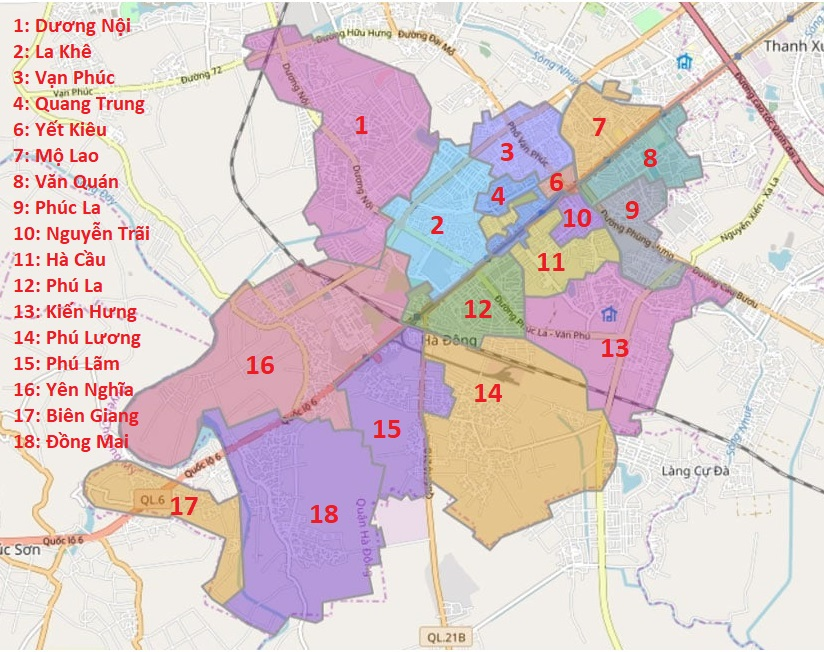
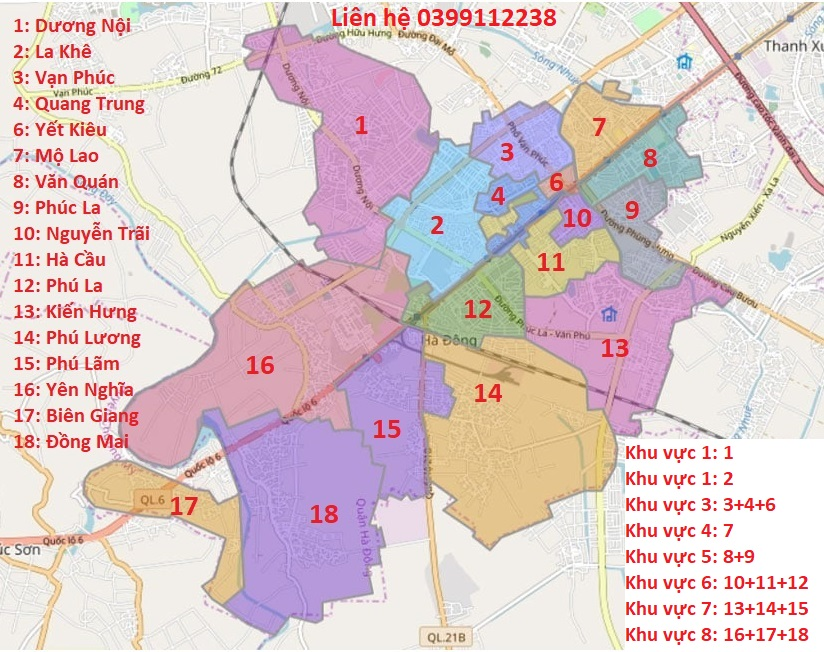
a

Changed region(s): [[0.7585, 0.6748, 1.0, 1.0], [0.3944, 0.0, 0.6978, 0.0613]]

diff --git a/index.html b/index.html
@@ -76,12 +76,12 @@
 
                <div class="dropdown button2" id="logomenu">
                   <button class="btn btn-default btn-lg dropdown-toggle button3" type="button" id="luachon" data-toggle="dropdown" aria-haspopup="true" aria-expanded="false">
-                    Tiếng Anh với người nước ngoài
+                    Nhà trên 5 tỷ
                     <span class="caret"></span>
                   </button>
                   <ul class="dropdown-menu" aria-labelledby="luachon">
-                    <li><a href="#">Lập trình cho trẻ em</a></li>
-                    <li><a href="#">Tiếng Hàn online</a></li> 
+                    <li><a href="#">Nhà trên 3 tỷ</a></li>
+                    <li><a href="#">Nhà dưới 5 tỷ</a></li> 
                    <!--  <li><a href="#">Sản phẩm mùa đông</a></li>  -->                    
                   </ul>
                    <button class="btn btn-default btn-lg button1" type="button"><i class="fa fa-search" ></i></button>
@@ -94,7 +94,7 @@
   <!-- khung 3 -->
      <div class="col-md-2 hidden-xs hidden-sm nuthover navbar-right ">
         
-        <div class="btn btn-default btn-lg dropdown-toggle navbar-right button4"><i class="fa fa-shopping-cart  "></i> 0 Khóa học(s) - 0 VND
+        <div class="btn btn-default btn-lg dropdown-toggle navbar-right button4"><i class="fa fa-shopping-cart  "></i> 1 Nhà Hà Đông - 6,5 tỷ
          
       
         </div>      
@@ -277,7 +277,10 @@
                     </div>
                 </div>
                 <div class="nuthanghoa text-center" id="nuthanghoa">
-                 <span id="nuthanghoa"><img src="img1/hand-right.gif"></span><button  type="button" class="btn btn-default cha " data-toggle="modal" data-target=".bs-example-modal-lg">Gọi tư vấn</button>
+                 <span id="nuthanghoa"><img src="img1/hand-right.gif"></span><button  type="button" class="btn btn-default cha ">
+ 						<a  href="tel://0984214768"><i ></i>Gọi tư vấn</a>
+                 </button>
+
                  </div>
             </div>
             <div class="item">
@@ -411,7 +414,7 @@
     <div id="main3">       
            <!-- Controls -->
       <div class="nutcontrol">
-          <span class="nennut"><span class="glyphicon glyphicon-heart-empty"></span>Các khu vực</span>
+          <span class="nennut"><span class="glyphicon glyphicon-heart-empty"></span> Chọn khu vực</span>
           <div class="muiten"><i class="fa fa-caret-left" aria-hidden="true"></i></div>
           <a class=" navbar-right" href="#carousel-simple3" role="button" data-slide="next">
              <span><i class="fa fa-chevron-right vitri4 text-center" aria-hidden="true"></i></span>
@@ -451,7 +454,7 @@
               <div class="item">
                 <div class="col-md-4 col-xs-12">
                    <div class="spchayngang thumbnail">
-                        <img src="img1/hoctap/english.jpg" alt="">
+                        <img src="img1/hoctap/dev.jpg" alt="">
                       <button type="button" class="btn qickshop1 center-block" ><a class="buttonwhite" href="">Chi tiết</a></button>
                 <div class=" sanphaminfor"> 
                   <p class="text-center" style="font-weight: bold ;">Khu vực 2: Mã số 2</p>
@@ -471,7 +474,30 @@
               </div>
 
 
-                          <div class="item">
+             <div class="item">
+                <div class="col-md-4 col-xs-12">
+                   <div class="spchayngang thumbnail">
+                      <img src="img1/hoctap/dev.jpg" alt="">
+                      <button type="button" class="btn qickshop1 center-block" ><a class="buttonwhite" href="">Chi tiết</a></button>
+                <div class=" sanphaminfor"> 
+                  <p class="text-center" style="font-weight: bold ;">Khu vực 3: Mã số 3+4+5+6</p>
+                   <div class="text-center"><span class="danhgia "><i class="fa fa-star" aria-hidden="true"></i><i class="fa fa-star" aria-hidden="true"></i><i class="fa fa-star" aria-hidden="true"></i><i class="fa fa-star" aria-hidden="true"></i><i class="fa fa-star-half-o" aria-hidden="true"></i></span>
+                    </div>
+                </div>
+                       <div class="nuthanghoa text-center" id="nuthanghoa">
+                          
+                          <span><img src="img1/hand-right.gif"></span><button type="button" class="btn btn-default cha" data-toggle="modal" data-target=".bs-example-modal-lg">Đăng ký</button>
+                          <div class="btn-group" role="group" aria-label="...">
+                            <button type="button" class="btn btn-default con"><i class="fa fa-heart"></i></button>
+                            <button type="button" class="btn btn-default con"><i class="fa fa-retweet"></i></button>
+                          </div>
+                       </div>
+                    </div>
+                </div>
+              </div>
+
+               
+             <div class="item">
                 <div class="col-md-4 col-xs-12">
                    <div class="spchayngang thumbnail">
                       <img src="img1/hoctap/Korian.jpg" alt="">
@@ -493,7 +519,90 @@
                 </div>
               </div>
 
-               
+             <div class="item">
+                <div class="col-md-4 col-xs-12">
+                   <div class="spchayngang thumbnail">
+                      <img src="img1/hoctap/Korian.jpg" alt="">
+                      <button type="button" class="btn qickshop1 center-block" ><a class="buttonwhite" href="">Chi tiết</a></button>
+                <div class=" sanphaminfor"> 
+                  <p class="text-center" style="font-weight: bold ;">Khu vực 3: Mã số 3+4+5+6</p>
+                   <div class="text-center"><span class="danhgia "><i class="fa fa-star" aria-hidden="true"></i><i class="fa fa-star" aria-hidden="true"></i><i class="fa fa-star" aria-hidden="true"></i><i class="fa fa-star" aria-hidden="true"></i><i class="fa fa-star-half-o" aria-hidden="true"></i></span>
+                    </div>
+                </div>
+                       <div class="nuthanghoa text-center" id="nuthanghoa">
+                          
+                          <span><img src="img1/hand-right.gif"></span><button type="button" class="btn btn-default cha" data-toggle="modal" data-target=".bs-example-modal-lg">Đăng ký</button>
+                          <div class="btn-group" role="group" aria-label="...">
+                            <button type="button" class="btn btn-default con"><i class="fa fa-heart"></i></button>
+                            <button type="button" class="btn btn-default con"><i class="fa fa-retweet"></i></button>
+                          </div>
+                       </div>
+                    </div>
+                </div>
+              </div>
+             <div class="item">
+                <div class="col-md-4 col-xs-12">
+                   <div class="spchayngang thumbnail">
+                      <img src="img1/hoctap/Korian.jpg" alt="">
+                      <button type="button" class="btn qickshop1 center-block" ><a class="buttonwhite" href="">Chi tiết</a></button>
+                <div class=" sanphaminfor"> 
+                  <p class="text-center" style="font-weight: bold ;">Khu vực 3: Mã số 3+4+5+6</p>
+                   <div class="text-center"><span class="danhgia "><i class="fa fa-star" aria-hidden="true"></i><i class="fa fa-star" aria-hidden="true"></i><i class="fa fa-star" aria-hidden="true"></i><i class="fa fa-star" aria-hidden="true"></i><i class="fa fa-star-half-o" aria-hidden="true"></i></span>
+                    </div>
+                </div>
+                       <div class="nuthanghoa text-center" id="nuthanghoa">
+                          
+                          <span><img src="img1/hand-right.gif"></span><button type="button" class="btn btn-default cha" data-toggle="modal" data-target=".bs-example-modal-lg">Đăng ký</button>
+                          <div class="btn-group" role="group" aria-label="...">
+                            <button type="button" class="btn btn-default con"><i class="fa fa-heart"></i></button>
+                            <button type="button" class="btn btn-default con"><i class="fa fa-retweet"></i></button>
+                          </div>
+                       </div>
+                    </div>
+                </div>
+              </div>
+             <div class="item">
+                <div class="col-md-4 col-xs-12">
+                   <div class="spchayngang thumbnail">
+                      <img src="img1/hoctap/Korian.jpg" alt="">
+                      <button type="button" class="btn qickshop1 center-block" ><a class="buttonwhite" href="">Chi tiết</a></button>
+                <div class=" sanphaminfor"> 
+                  <p class="text-center" style="font-weight: bold ;">Khu vực 3: Mã số 3+4+5+6</p>
+                   <div class="text-center"><span class="danhgia "><i class="fa fa-star" aria-hidden="true"></i><i class="fa fa-star" aria-hidden="true"></i><i class="fa fa-star" aria-hidden="true"></i><i class="fa fa-star" aria-hidden="true"></i><i class="fa fa-star-half-o" aria-hidden="true"></i></span>
+                    </div>
+                </div>
+                       <div class="nuthanghoa text-center" id="nuthanghoa">
+                          
+                          <span><img src="img1/hand-right.gif"></span><button type="button" class="btn btn-default cha" data-toggle="modal" data-target=".bs-example-modal-lg">Đăng ký</button>
+                          <div class="btn-group" role="group" aria-label="...">
+                            <button type="button" class="btn btn-default con"><i class="fa fa-heart"></i></button>
+                            <button type="button" class="btn btn-default con"><i class="fa fa-retweet"></i></button>
+                          </div>
+                       </div>
+                    </div>
+                </div>
+              </div>
+             <div class="item">
+                <div class="col-md-4 col-xs-12">
+                   <div class="spchayngang thumbnail">
+                      <img src="img1/hoctap/Korian.jpg" alt="">
+                      <button type="button" class="btn qickshop1 center-block" ><a class="buttonwhite" href="">Chi tiết</a></button>
+                <div class=" sanphaminfor"> 
+                  <p class="text-center" style="font-weight: bold ;">Khu vực 3: Mã số 3+4+5+6</p>
+                   <div class="text-center"><span class="danhgia "><i class="fa fa-star" aria-hidden="true"></i><i class="fa fa-star" aria-hidden="true"></i><i class="fa fa-star" aria-hidden="true"></i><i class="fa fa-star" aria-hidden="true"></i><i class="fa fa-star-half-o" aria-hidden="true"></i></span>
+                    </div>
+                </div>
+                       <div class="nuthanghoa text-center" id="nuthanghoa">
+                          
+                          <span><img src="img1/hand-right.gif"></span><button type="button" class="btn btn-default cha" data-toggle="modal" data-target=".bs-example-modal-lg">Đăng ký</button>
+                          <div class="btn-group" role="group" aria-label="...">
+                            <button type="button" class="btn btn-default con"><i class="fa fa-heart"></i></button>
+                            <button type="button" class="btn btn-default con"><i class="fa fa-retweet"></i></button>
+                          </div>
+                       </div>
+                    </div>
+                </div>
+              </div>
 
 
 
@@ -522,145 +631,13 @@
 
 
      <!-- phan 3 san pham giam can --> 
+
+
  <div class="row">
     <div id="main2">       
            <!-- Controls -->
-      <div class="nutcontrol">
-          <span class="nennut"><span class="glyphicon glyphicon-resize-small"></span>Thầy cô tiếng Anh</span>
-          <div class="muiten"><i class="fa fa-caret-left" aria-hidden="true"></i></div>
-          <a class=" navbar-right" href="#carousel-simple2" role="button" data-slide="next">
-             <span><i class="fa fa-chevron-right vitri4 text-center" aria-hidden="true"></i></span>
-          </a>
-          <a class=" navbar-right " href="#carousel-simple2" role="button" data-slide="prev">
-              <span><i class="fa fa-chevron-left vitri3 text-center" aria-hidden="true"></i></span>
-          </a>
-      </div> 
-      <div id="carousel-simple2" class="carousel multi-item-carousel slide col-md-12" data-ride="carousel">
-            <!-- Wrapper for slides -->
-            <div class="carousel-inner" role="listbox">
-
-             <div class="item active">
-                <div class="col-md-4 col-xs-12">
-                   <div class="spchayngang thumbnail">
-                      <img src="img1/teachers/ENJELL.jpg" alt="">
-                      <button type="button" class="btn qickshop1 center-block" ><a class="buttonwhite" href="">Chi tiết</a></button>
-                <div class=" sanphaminfor"> 
-                  <p class="text-center" style="font-weight: bold;">Cô ENJELL</p>
-                   <div class="text-center"><span class="danhgia "><i class="fa fa-star" aria-hidden="true"></i><i class="fa fa-star" aria-hidden="true"></i><i class="fa fa-star" aria-hidden="true"></i><i class="fa fa-star" aria-hidden="true"></i><i class="fa fa-star-half-o" aria-hidden="true"></i></span>
-                    </div>
-                </div>
-                       <div class="nuthanghoa text-center" id="nuthanghoa">
-                          
-                          <span><img src="img1/hand-right.gif"></span><button type="button" class="btn btn-default cha" data-toggle="modal" data-target=".bs-example-modal-lg">Đăng ký</button>
-                          <div class="btn-group" role="group" aria-label="...">
-                            <button type="button" class="btn btn-default con"><i class="fa fa-heart"></i></button>
-                            <button type="button" class="btn btn-default con"><i class="fa fa-retweet"></i></button>
-                          </div>
-                       </div>
-                       
-                    </div>
-                </div>
-              </div>
-              
-                                      <div class="item">
-                <div class="col-md-4 col-xs-12">
-                   <div class="spchayngang thumbnail">
-                      <img src="img1/teachers/GRACE.jpg" alt="">
-                      <button type="button" class="btn qickshop1 center-block" ><a class="buttonwhite" href="">Chi tiết</a></button>
-                <div class=" sanphaminfor"> 
-                  <p class="text-center" style="font-weight: bold;">Cô GRACE</p>
-                   <div class="text-center"><span class="danhgia "><i class="fa fa-star" aria-hidden="true"></i><i class="fa fa-star" aria-hidden="true"></i><i class="fa fa-star" aria-hidden="true"></i><i class="fa fa-star" aria-hidden="true"></i><i class="fa fa-star-half-o" aria-hidden="true"></i></span>
-                    </div>
-                </div>
-                       <div class="nuthanghoa text-center" id="nuthanghoa">
-                          
-                          <span><img src="img1/hand-right.gif"></span><button type="button" class="btn btn-default cha" data-toggle="modal" data-target=".bs-example-modal-lg">Đăng ký</button>
-                          <div class="btn-group" role="group" aria-label="...">
-                            <button type="button" class="btn btn-default con"><i class="fa fa-heart"></i></button>
-                            <button type="button" class="btn btn-default con"><i class="fa fa-retweet"></i></button>
-                          </div>
-                       </div>
-                    </div>
-                </div>
-              </div>
-
-               <div class="item">
-                <div class="col-md-4 col-xs-12">
-                   <div class="spchayngang thumbnail">
-                      <img src="img1/teachers/JAMES.jpg" alt="">
-                      <button type="button" class="btn qickshop1 center-block" ><a class="buttonwhite" href="">Chi tiết</a></button>
-                <div class=" sanphaminfor"> 
-                  <p class="text-center" style="font-weight: bold;">Thầy JAMES</p>
-                   <div class="text-center"><span class="danhgia "><i class="fa fa-star" aria-hidden="true"></i><i class="fa fa-star" aria-hidden="true"></i><i class="fa fa-star" aria-hidden="true"></i><i class="fa fa-star" aria-hidden="true"></i><i class="fa fa-star-half-o" aria-hidden="true"></i></span>
-                    </div>
-                </div>
-                       <div class="nuthanghoa text-center" id="nuthanghoa">
-                          
-                          <span><img src="img1/hand-right.gif"></span><button type="button" class="btn btn-default cha" data-toggle="modal" data-target=".bs-example-modal-lg">Đăng ký</button>
-                          <div class="btn-group" role="group" aria-label="...">
-                            <button type="button" class="btn btn-default con"><i class="fa fa-heart"></i></button>
-                            <button type="button" class="btn btn-default con"><i class="fa fa-retweet"></i></button>
-                          </div>
-                       </div>
-                    </div>
-                </div>
-              </div>
-
-
-
-
-              <div class="item">
-                <div class="col-md-4 col-xs-12">
-                   <div class="spchayngang thumbnail">
-                      <img src="img1/teachers/JEAN.jpg" alt="">
-                      <button type="button" class="btn qickshop1 center-block" ><a class="buttonwhite" href="">Chi tiết</a></button>
-                <div class=" sanphaminfor"> 
-                  <p class="text-center" style="font-weight: bold;">Cô JEAN</p>
-                   <div class="text-center"><span class="danhgia "><i class="fa fa-star" aria-hidden="true"></i><i class="fa fa-star" aria-hidden="true"></i><i class="fa fa-star" aria-hidden="true"></i><i class="fa fa-star" aria-hidden="true"></i><i class="fa fa-star-half-o" aria-hidden="true"></i></span>
-                    </div>
-                </div>
-                       <div class="nuthanghoa text-center" id="nuthanghoa">
-                          
-                          <span><img src="img1/hand-right.gif"></span><button type="button" class="btn btn-default cha" data-toggle="modal" data-target=".bs-example-modal-lg">Đăng ký</button>
-                          <div class="btn-group" role="group" aria-label="...">
-                            <button type="button" class="btn btn-default con"><i class="fa fa-heart"></i></button>
-                            <button type="button" class="btn btn-default con"><i class="fa fa-retweet"></i></button>
-                          </div>
-                       </div>
-                    </div>
-                </div>
-              </div>
-
-              
-              <div class="item">
-                <div class="col-md-4 col-xs-12">
-                   <div class="spchayngang thumbnail">
-                      <img src="img1/teachers/LALAINE.jpg" alt="">
-                      <button type="button" class="btn qickshop1 center-block" ><a class="buttonwhite" href="">Chi tiết</a></button>
-                <div class=" sanphaminfor"> 
-                  <p class="text-center" style="font-weight: bold;">Cô LALAINE</p>
-                   <div class="text-center"><span class="danhgia "><i class="fa fa-star" aria-hidden="true"></i><i class="fa fa-star" aria-hidden="true"></i><i class="fa fa-star" aria-hidden="true"></i><i class="fa fa-star" aria-hidden="true"></i><i class="fa fa-star-half-o" aria-hidden="true"></i></span>
-                    </div>
-                </div>
-                       <div class="nuthanghoa text-center" id="nuthanghoa">
-                          
-                          <span><img src="img1/hand-right.gif"></span><button type="button" class="btn btn-default cha" data-toggle="modal" data-target=".bs-example-modal-lg">Đăng ký</button>
-                          <div class="btn-group" role="group" aria-label="...">
-                            <button type="button" class="btn btn-default con"><i class="fa fa-heart"></i></button>
-                            <button type="button" class="btn btn-default con"><i class="fa fa-retweet"></i></button>
-                          </div>
-                       </div>
-                    </div>
-                </div>
-              </div>
-
-              
-
-              
-
-            </div> 
-
-      </div>  <!-- ket thuc carouselsimple1 -->
+      
+     
 
     </div> 
   </div><!-- ket thuc div row -->
@@ -672,29 +649,7 @@
     </div>
   -->
 <div class="gioithieu " id="gioithieu">
-          <div class="row hidden-sm hidden-xs ">
-            <div class="col-md-6 col-xs-6">
-              <div class="tucssjumbo well jumbo1 ">               
-                <div class="col-md-6 col-xs-12">
-                  <h2>Thêm 5% khi đăng ký theo nhóm</h2>
-                  <p>Với SP sau...</p>
-                  <p > <a href="#" data-toggle="modal" data-target=".bs-example-modal-lg">Liên hệ</a></p>
-                </div>
-                 
-              </div>
-            </div>
-           <div class="col-md-6 col-xs-12">
-              <div class="tucssjumbo well jumbo2">
-                <div class="col-md-6 col-xs-6 col-md-offset-6 text-right">
-                  <h2>KM khi đăng ký vào </h2>
-                  <p>8h-9h ngày thứ 5 hàng tuần...</p>
-                 <p > <a href="#" data-toggle="modal" data-target=".bs-example-modal-lg">Liên hệ</a></p>
-                </div>
-                
-                 
-              </div>
-          </div> 
-    </div><!-- ket huc gioi thieu  -->  
+          
 
   
 
@@ -991,7 +946,7 @@
     <div class="modal-content">
       <div class="modal-header" id="tucssmodal">
         <button type="button" class="close" data-dismiss="modal" aria-label="Close"><span aria-hidden="true">&times;</span></button>
-        <h4 class="modal-title" id="gridSystemModalLabel">Liên hệ đăng ký</h4>
+        <h4 class="modal-title" id="gridSystemModalLabel">Liên hệ mua nhà</h4>
       </div>
       <div class="modal-body">
         <div class="row">
@@ -1001,7 +956,7 @@
              
              <div class="text-center">
              	<!-- <iframe src="https://docs.google.com/forms/d/e/1FAIpQLSectA4uBrhksnDHSCfnRLVSiHQbyrhKJIggQmfuKBj7dq201w/viewform?embedded=true" width="500" height="600" frameborder="0" marginheight="0" marginwidth="0">Loading...</iframe> -->
-             <a class="navbar-brand" href="tel://0984214768"><i class="fa fa-phone" aria-hidden="true"></i> HOTLINE 0399112238</a>
+             <a class="navbar-brand" href="tel://0984214768"><i class="fa fa-phone" aria-hidden="true"></i>0399112238</a>
              
              </div>
           </div>            
